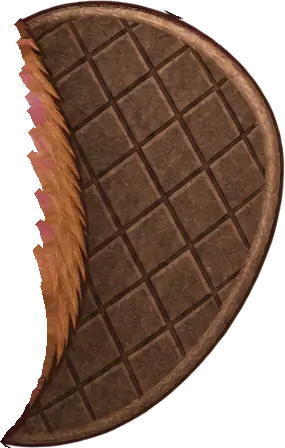
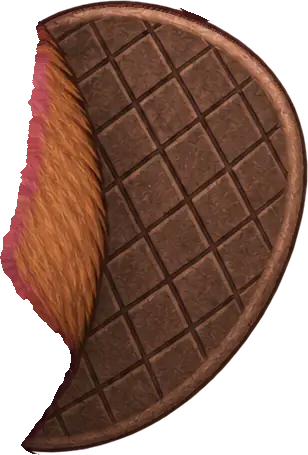
Hedgehog hides behind the bush for real; Beaver's tail root redrawn
Stickers draw under puppets (renderOrder 10 < 20), so "who hides behind
this bush?" showed Hedgehog standing in front of it; the bush now draws
over him and covers him whole. Beaver's tail piece ended in a ragged fur
strip with a pink fringe, which showed beside the torso once the tail was
raised in the editor (the user's corrections, committed with it); the
piece was regenerated with a rounded root.

diff --git a/game/lessons/shapes/lesson.js b/game/lessons/shapes/lesson.js
@@ -42,7 +42,8 @@ export default {
       // A. the meadow: Hedgehog has no house; the shapes are traced and their corners counted
       async (c) => {
         c.show("jez");
-        const krzak = await c.object("krzak", { x: 4.9, y: -2.1, size: 2.2, z: 0.6 });
+        const krzak = await c.object("krzak", { x: 4.9, y: -1.9, size: 2.9, z: 0.6 });
+        krzak.mesh.traverse((o) => { if (o.isMesh) o.renderOrder = 35; });   // stickers draw under puppets (10 < 20): the bush must hide Hedgehog
         await Promise.all([c.enter("lisek"), c.enter("sowa")]);
         await c.say("lisek", "line.a_kto_tam");
         krzak.remove(); c.stage.bump(c.stage.puppets.jez);
